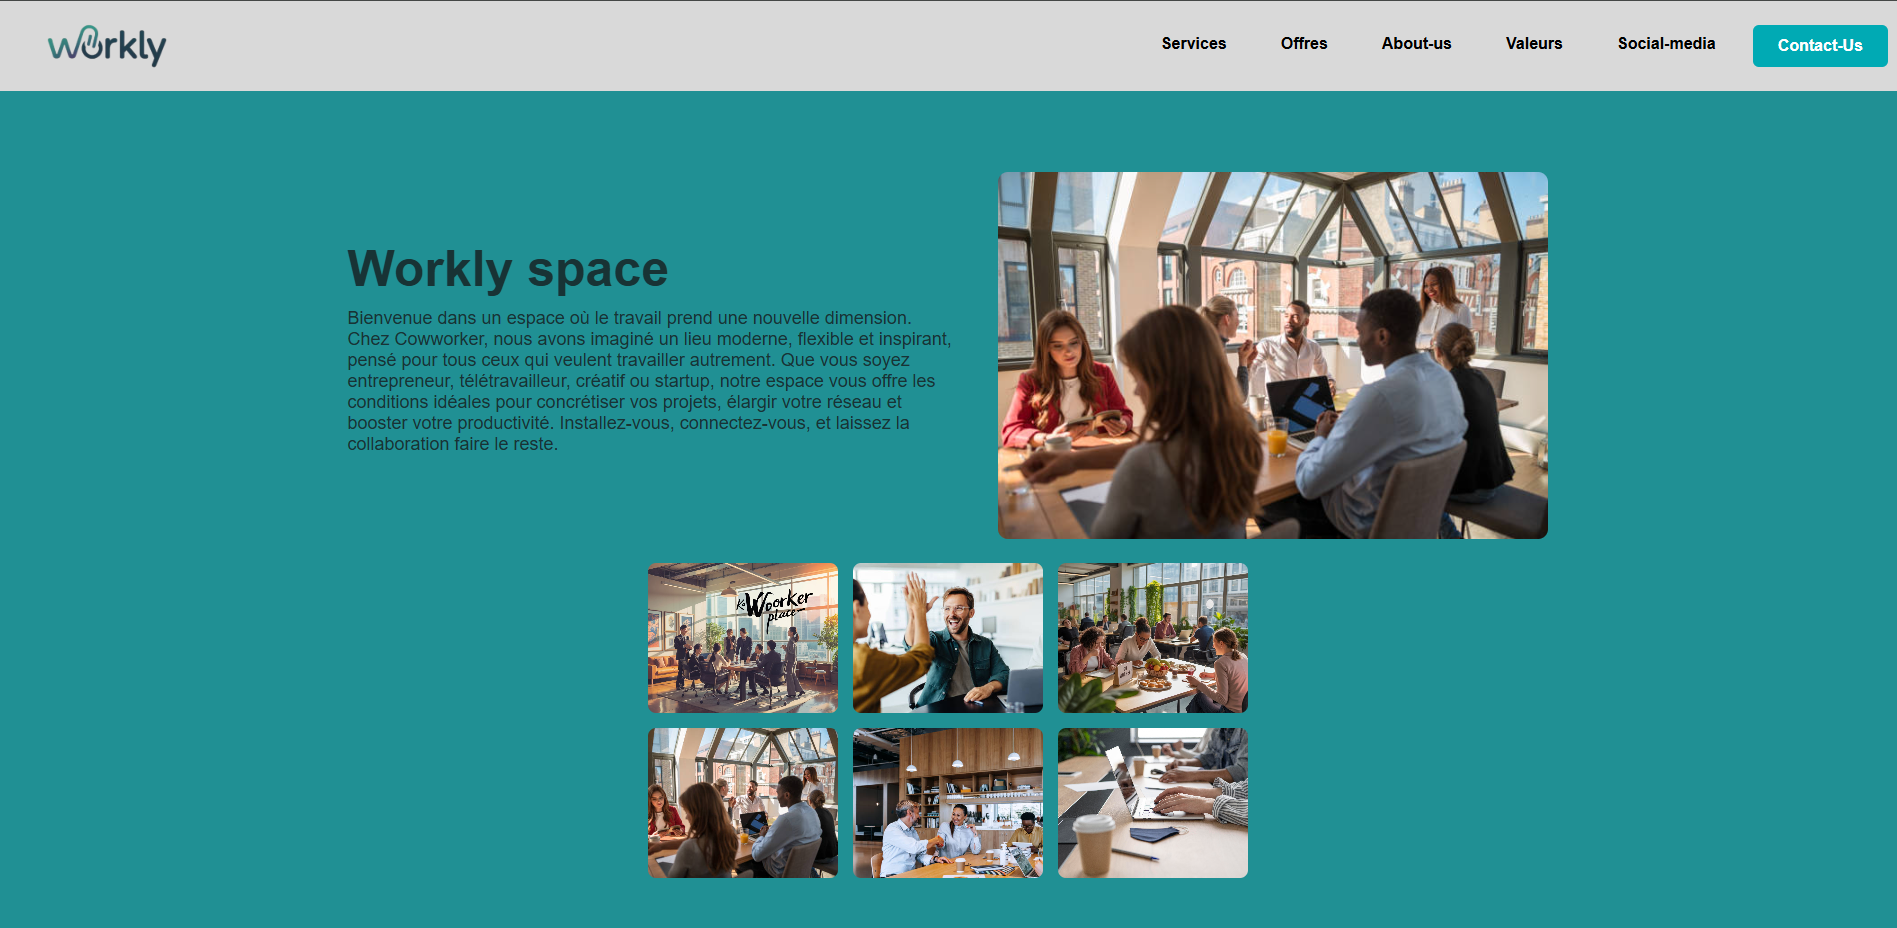
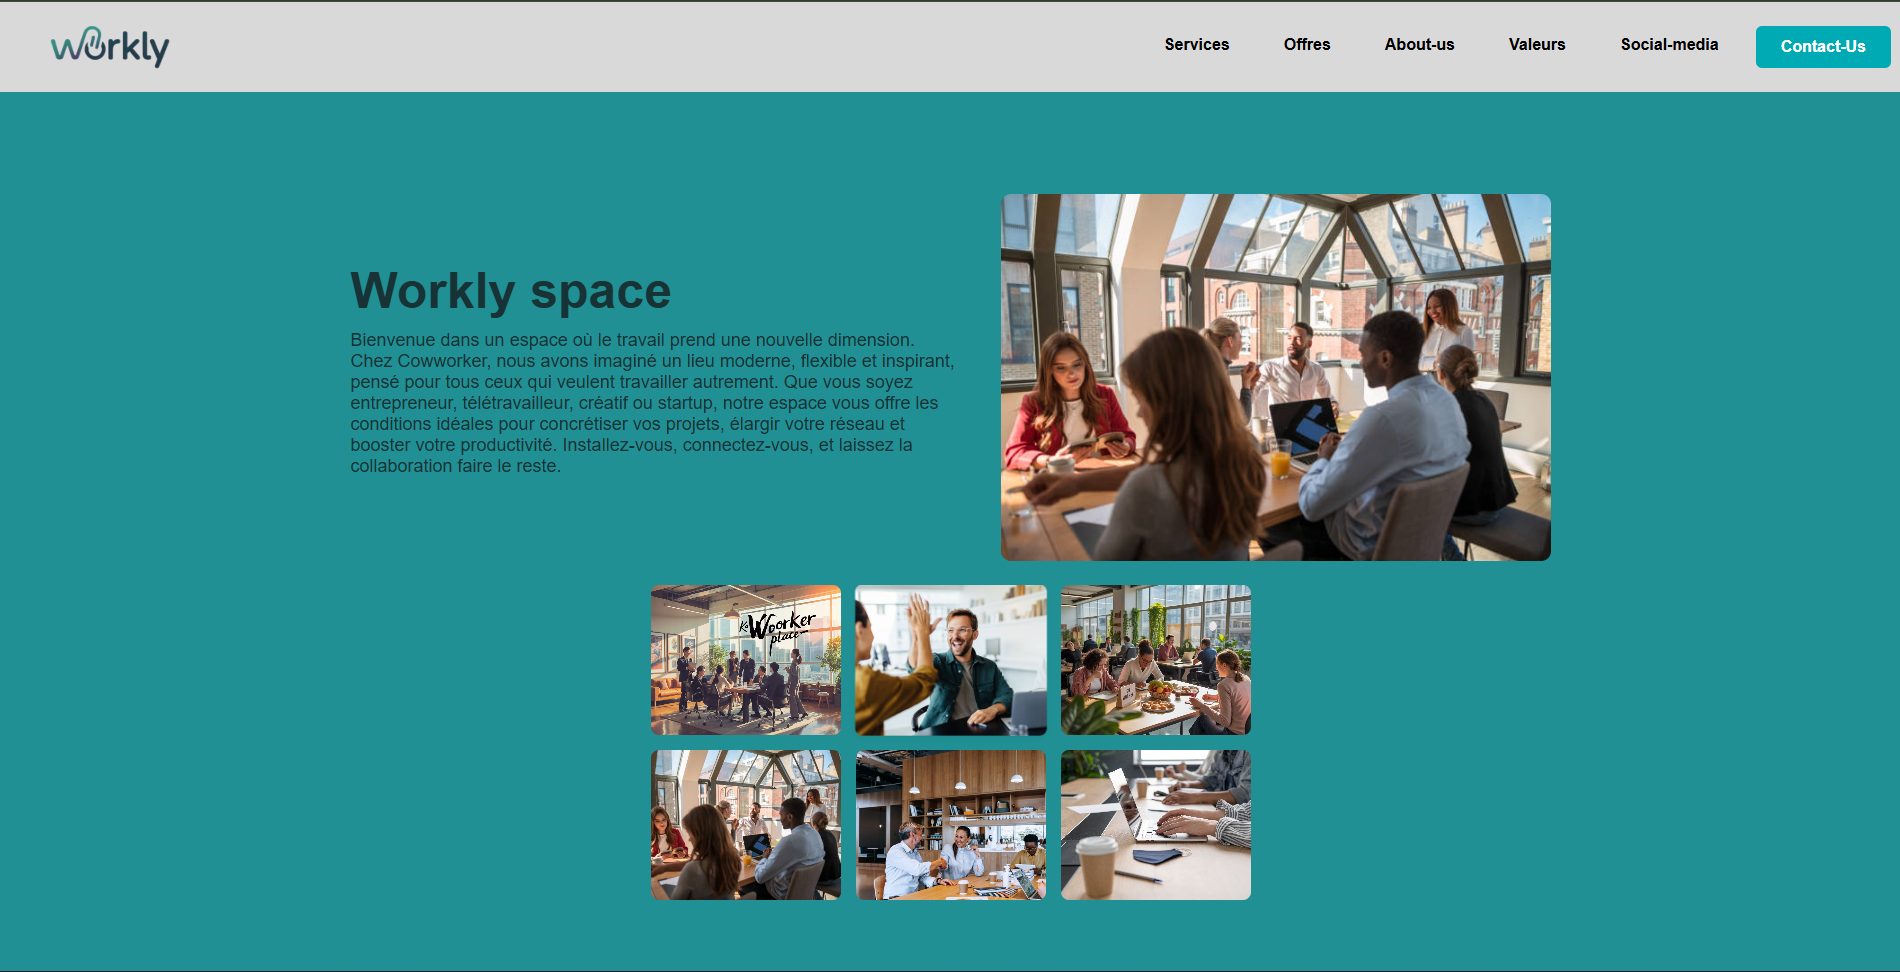
web with image mobile with image

diff --git a/js/data/web-projects.js b/js/data/web-projects.js
@@ -13,7 +13,7 @@ window.webProjectsData = {
             description: "A modern web application for managing co-working spaces, showcasing services, booking options, and interactive features.",
             technologies: ["HTML5", "CSS3", "JavaScript", "GitHub Pages"],
             images: [
-                "/images/web/workly.png"
+                "images/web/workly.png"
             ],
             features: [
                 "Co-working space showcase",
@@ -42,7 +42,7 @@ window.webProjectsData = {
             description: "A modern web application displaying weather data using API integration with interactive UI and responsive design.",
             technologies: ["HTML5", "CSS3", "JavaScript", "GitHub Pages", "API Integration"],
             images: [
-                "/images/web/weather.png"
+                "images/web/weather.png"
             ],
             features: [
                 "Real-time weather information",
